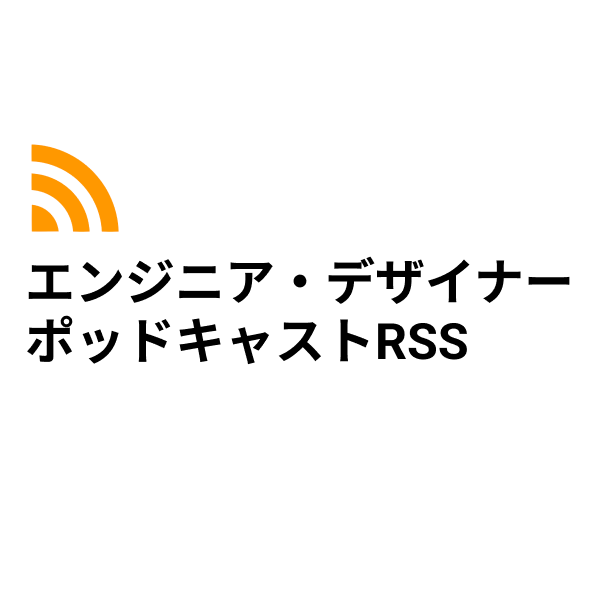
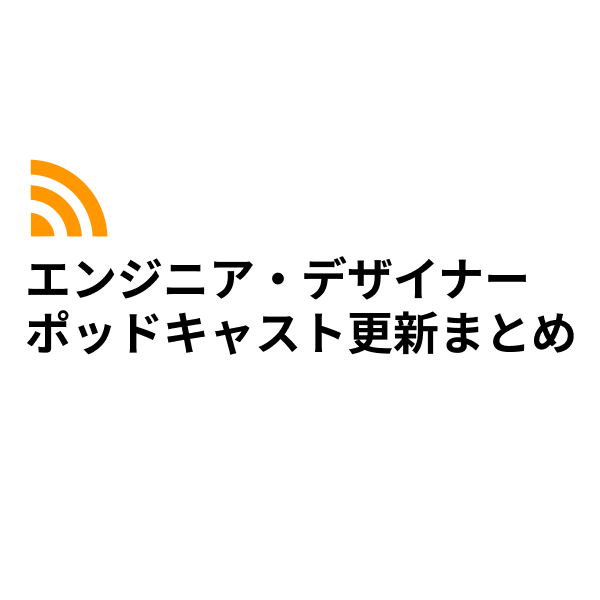
feat: サイトの説明などを修正

Changed region(s): [[0.03, 0.24, 0.96, 0.6]]

diff --git a/src/common/constants.js b/src/common/constants.js
@@ -5,11 +5,11 @@ module.exports = {
   // サイト設定
   siteUrl: `${siteUrl}`,
   siteUrlStem: siteUrlStem,
-  siteTitle: 'エンジニアやデザイナーがやっているポッドキャストRSS',
+  siteTitle: 'エンジニアやデザイナーがやっているポッドキャスト更新まとめ',
   siteDescription: 'エンジニアやデザイナーがやっているポッドキャストの更新をまとめたRSSフィードを配信しています',
 
   // フィード設定
-  feedTitle: 'エンジニアやデザイナーがやっているポッドキャストRSS',
+  feedTitle: 'エンジニアやデザイナーがやっているポッドキャスト更新まとめ',
   feedDescription: 'エンジニアやデザイナーがやっているポッドキャストの更新をまとめたRSSフィード',
   feedLanguage: 'ja',
   feedCopyright: 'it-trio/engineer-designer-podcast-rss',

diff --git a/README.md b/README.md
@@ -1,28 +1,20 @@
-# <img src="src/site/images/icon-transparent.png" height=26> 企業テックブログRSS
-企業のテックブログの更新をまとめたRSSフィードを配信しています。  
-記事を読んでその企業の技術・カルチャーを知れることや、質の高い技術情報を得られることを目的としています。
+# <img src="src/site/images/icon-transparent.png" height=26> エンジニアやデザイナーがやっているポッドキャスト更新まとめ
 
-https://yamadashy.github.io/tech-blog-rss-feed/
+エンジニアやデザイナーがやっているポッドキャストの更新をまとめたRSSフィードを配信しています。
+
+@yamadashyさんの作成された[yamadashy/tech-blog-rss-feed](https://yamadashy.github.io/tech-blog-rss-feed/)をフォークして作成しました。
 
 
-独自のフィードを作って公開したい場合は自由にフォークしてください。
+## 番組追加の方針
 
-## サイト追加の方針
-企業のテックブログ（技術ブログ、エンジニアブログ）であれば、基本的には追加します。  
-ただし、以下に該当するものは検討します。
+以下の条件を満たした番組を追加しています。
 
-- その企業の取り組みでないものが多く投稿される可能性があるブログ
-  - テック系メディア
-  - Qiita Organization や Zenn Publication など、組織として投稿しているかの線引が曖昧なものは、投稿内容を見て検討します
-- 記事が自社製品の紹介のみ
-- 日本語以外の言語で書かれている記事が多いブログ
+- ホストのうち少なくとも1人がエンジニアかデザイナーであること
+- 番組の内容が、少しでもエンジニアリングやデザインについて触れていること
 
-逆に、以下はテックブログと判断して追加しています。
+企業が運営しているポッドキャスト番組については[it-trio/it-company-podcast-rss-feed](https://github.com/it-trio/it-company-podcast-rss-feed)で管理しています。
 
-- [Zenn](https://zenn.dev/), [note](https://note.com/), [Medium](https://medium.com/) などの企業系テックブログ
-- 企業系ブログのテクノロジーカテゴリ
-
-## サイトの追加方法
+## 番組の追加方法
 [src/resources/feed-info-list.ts](https://github.com/yamadashy/tech-blog-rss-feed/blob/main/src/resources/feed-info-list.ts) で管理しており、その一覧にない場合 issue を作っていただければ対応します。  
 
 ### プルリクでの送り方
@@ -30,7 +22,7 @@ https://yamadashy.github.io/tech-blog-rss-feed/
 
 1. このリポジトリをフォーク
 2. ブランチ作成  
-   `git checkout -b new-blog-feed-xxx`
+   `git switch -c new-blog-feed-xxx`
 3. フィードを追加  
    `src/resources/feed-info-list.ts` の `FEED_INFO_LIST` を更新
 4. コミット  
@@ -45,8 +37,8 @@ https://yamadashy.github.io/tech-blog-rss-feed/
 GitHub Actions で定期的に更新されており、サイトの生成は [Eleventy](https://www.11ty.dev/) を使用しています。
 
 更新は多少遅延ありますが以下のタイミングで行います。
-- 平日 8時-24時の1時間おき
-- 休日 8時-24時の2時間おき
+- 平日: 6時、7時、8時、10時、12時、20時
+- 土日: 6時、12時、20時
 
 ### フォークして使う場合
 以下を書き換えると独自のサイトが動きます。
@@ -60,7 +52,7 @@ GitHub Actions で定期的に更新されており、サイトの生成は [Ele
 
 ### 開発環境とコマンド
 環境
-- Node.js >= 20
+- Node.js => .node-versionを参照
 
 パッケージのインストール
 ```bash
